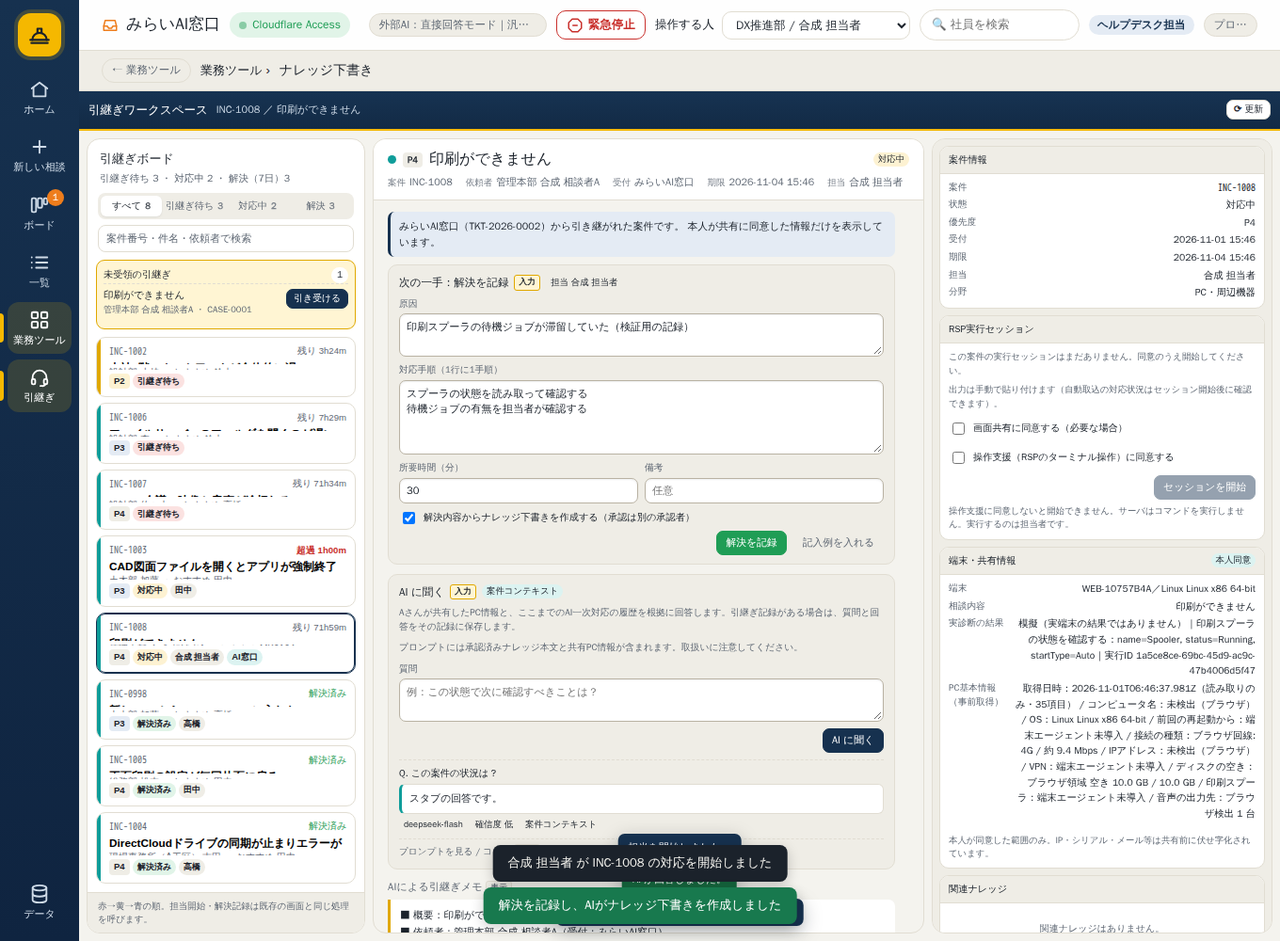
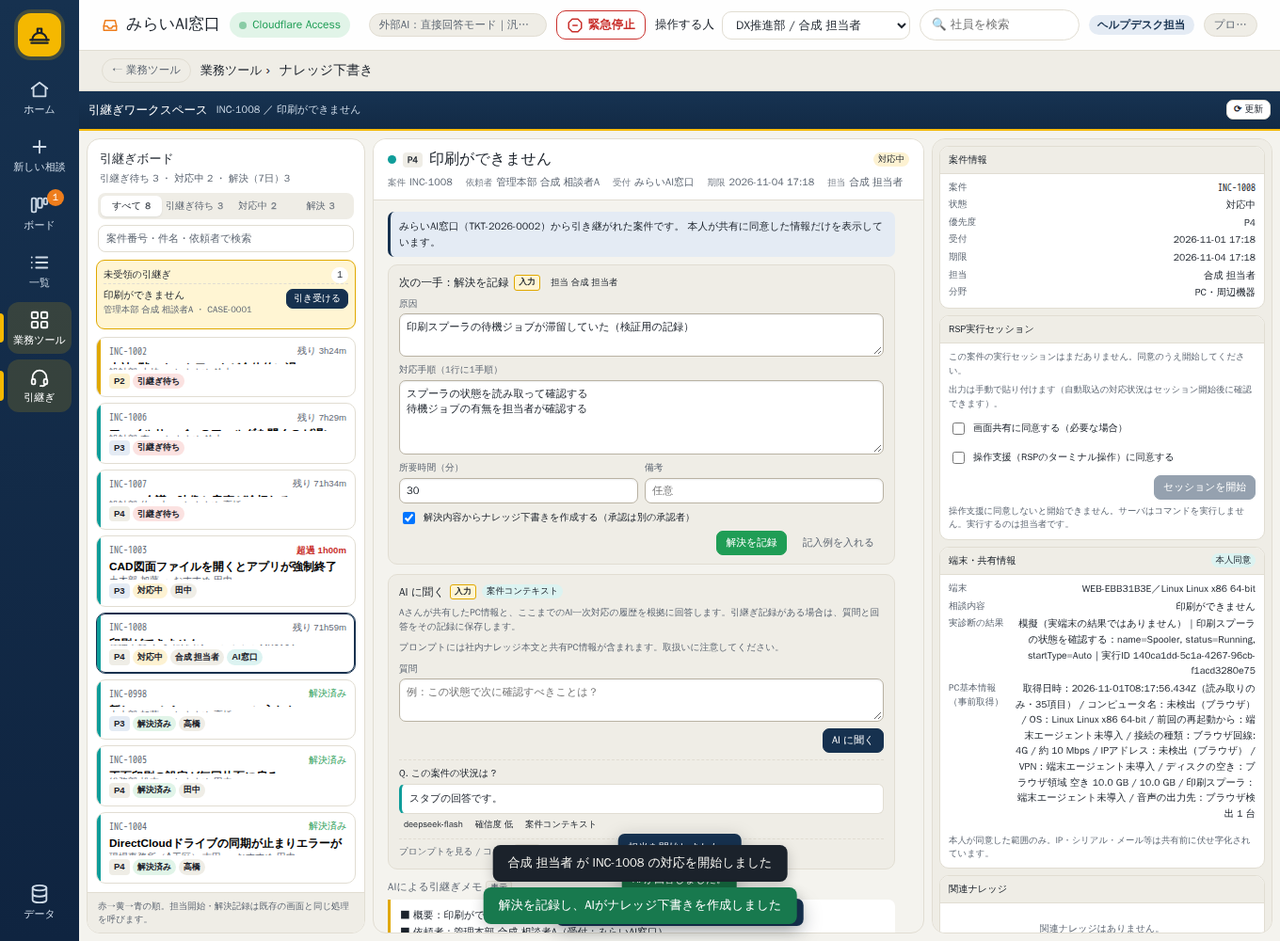
docs(verify): 承認の出所と保持期限の結果を記録し対応表を合わせる
Claude-Session: https://claude.ai/code/session_015rjQKFMA3Dwp4pu6PMqoM3

diff --git a/docs/evidence/dataflow-20261101/stub/report-sample.html b/docs/evidence/dataflow-20261101/stub/report-sample.html
@@ -65,36 +65,36 @@ summary { cursor: pointer; color: #245b9c; font-size: 9.5pt; }
     </div>
   </div>
 
-  <section class="sec" id="summary"><h2>概要</h2><table><thead><tr><th>項目</th><th>内容</th></tr></thead><tbody><tr><td>案件番号</td><td><span class="case">CASE-0001</span></td></tr><tr><td>相談者</td><td>管理本部 / 合成 相談者A <span class="muted">（社員番号 MK9101）</span></td></tr><tr><td>相談日時</td><td>2026-11-01 15:46:39</td></tr><tr><td>相談の種類</td><td>PC・周辺機器・ネットワーク</td></tr><tr><td>急ぎ具合</td><td>通常</td></tr><tr><td>対応結果</td><td><span class="badge" style="border-color:#245b9c;color:#245b9c">担当者の対応で解決</span></td></tr><tr><td>AIモデル</td><td>解決ループ（端末の読み取り結果。出所は各結果を参照）</td></tr><tr><td>出力日時</td><td>2026-11-01T06:47:51.473Z</td></tr><tr><td>出力者</td><td>管理本部 / 合成 相談者A <span class="muted">（一般社員・社員番号 MK9101）</span></td></tr><tr><td>受付番号 / ヘルプデスク</td><td>TKT-2026-0002 / INC-1008</td></tr><tr><td>担当者</td><td>MK9104</td></tr></tbody></table></section>
+  <section class="sec" id="summary"><h2>概要</h2><table><thead><tr><th>項目</th><th>内容</th></tr></thead><tbody><tr><td>案件番号</td><td><span class="case">CASE-0001</span></td></tr><tr><td>相談者</td><td>管理本部 / 合成 相談者A <span class="muted">（社員番号 MK9101）</span></td></tr><tr><td>相談日時</td><td>2026-11-01 17:17:57</td></tr><tr><td>相談の種類</td><td>PC・周辺機器・ネットワーク</td></tr><tr><td>急ぎ具合</td><td>通常</td></tr><tr><td>対応結果</td><td><span class="badge" style="border-color:#245b9c;color:#245b9c">担当者の対応で解決</span></td></tr><tr><td>AIモデル</td><td>解決ループ（端末の読み取り結果。出所は各結果を参照）</td></tr><tr><td>出力日時</td><td>2026-11-01T08:19:09.387Z</td></tr><tr><td>出力者</td><td>管理本部 / 合成 相談者A <span class="muted">（一般社員・社員番号 MK9101）</span></td></tr><tr><td>受付番号 / ヘルプデスク</td><td>TKT-2026-0002 / INC-1008</td></tr><tr><td>担当者</td><td>MK9104</td></tr></tbody></table></section>
   <section class="sec"><h2>相談内容</h2><p class="msg-text">印刷ボタンを押してもプリンターから紙が出ません</p></section>
-  <section class="sec"><h2>対応の経過</h2><table><thead><tr><th>日時</th><th>実施者</th><th>出来事</th><th>補足</th></tr></thead><tbody><tr><td>2026-11-01 15:46</td><td>合成 相談者A</td><td>相談を送信</td><td>印刷ができません</td></tr><tr><td>2026-11-01 15:46</td><td>模擬（実端末の結果ではありません）</td><td>端末の読み取り結果</td><td>印刷スプーラの状態を確認する</td></tr><tr><td>2026-11-01 15:46</td><td>合成 相談者A</td><td>共有に同意</td><td>本人が共有範囲を確認</td></tr><tr><td>2026-11-01 15:46</td><td>システム</td><td>担当者へ引き継ぎ</td><td>TKT-2026-0002</td></tr><tr><td>2026-11-01 15:46</td><td>システム</td><td>担当者へ引き継ぎ</td><td>TKT-2026-0002 → INC-1008</td></tr><tr><td>2026-11-01 15:46</td><td>システム</td><td>AI窓口から引継ぎ（本人同意済みの範囲のみ共有）</td><td></td></tr><tr><td>2026-11-01 15:46</td><td>システム</td><td>AIヘルプデスクへ連携（INC-1008）。対応結果はここに自動で反映されます</td><td></td></tr><tr><td>2026-11-01 15:46</td><td>システム</td><td>ヘルプデスクの担当：MK9104</td><td></td></tr><tr><td>2026-11-01 15:46</td><td>MK9104</td><td>担当者が対応開始</td><td></td></tr><tr><td>2026-11-01 15:46</td><td>MK9104</td><td>担当者が解決</td><td>DX推進部の担当者が対応しました。</td></tr><tr><td>2026-11-01 15:47</td><td>システム</td><td>ヘルプデスクの対応結果を反映</td><td></td></tr><tr><td>2026-11-01 15:47</td><td>システム</td><td>ヘルプデスクの対応結果を反映</td><td></td></tr></tbody></table></section>
-  <section class="sec"><h2>PC基本情報（読み取りのみ）</h2><p class="muted">端末 WEB-10757B4A ／ 取得 2026-11-01T06:46:37.981Z ／ 35項目 ／ 読み取りのみ</p><p class="note">IPアドレス・シリアル番号・資産番号は、この報告書では伏せています。</p><p class="ok">気になる点は見つかりませんでした。</p><details open><summary>PC基本情報の全項目（35件）</summary><table><thead><tr><th>分類</th><th>項目</th><th>値</th><th>判定</th></tr></thead><tbody><tr><td>端末</td><td>コンピュータ名</td><td>未検出（ブラウザ）</td><td><span class="dot ok"></span>正常</td></tr><tr><td>端末</td><td>機種</td><td>未検出（ブラウザ）</td><td><span class="dot ok"></span>正常</td></tr><tr><td>端末</td><td>シリアル番号</td><td>[シリアル番号]</td><td><span class="dot ok"></span>正常</td></tr><tr><td>端末</td><td>OS</td><td>Linux Linux x86 64-bit</td><td><span class="dot ok"></span>正常</td></tr><tr><td>端末</td><td>前回の再起動から</td><td>端末エージェント未導入</td><td><span class="dot ok"></span>正常</td></tr><tr><td>端末</td><td>PCエージェント</td><td>ブラウザ取得（読み取りのみ）</td><td><span class="dot ok"></span>正常</td></tr><tr><td>アカウント</td><td>サインイン中の人</td><td>ログイン中のユーザー（Access 認証済み）</td><td><span class="dot ok"></span>正常</td></tr><tr><td>アカウント</td><td>ドメイン・Entra ID</td><td>端末エージェント未導入</td><td><span class="dot ok"></span>正常</td></tr><tr><td>アカウント</td><td>多要素認証</td><td>Cloudflare Access（OTP）で認証済み</td><td><span class="dot ok"></span>正常</td></tr><tr><td>ネットワーク</td><td>接続の種類</td><td>ブラウザ回線: 4G / 約 9.4 Mbps</td><td><span class="dot ok"></span>正常</td></tr><tr><td>ネットワーク</td><td>IPアドレス</td><td>[IPアドレス]</td><td><span class="dot ok"></span>正常</td></tr><tr><td>ネットワーク</td><td>VPN</td><td>端末エージェント未導入</td><td><span class="dot ok"></span>正常</td></tr><tr><td>ネットワーク</td><td>社内ポータルへの到達</td><td>このアプリに到達（HTTPS）</td><td><span class="dot ok"></span>正常</td></tr><tr><td>ネットワーク</td><td>共有フォルダ</td><td>端末エージェント未導入</td><td><span class="dot ok"></span>正常</td></tr><tr><td>リソース</td><td>CPU使用率（5分平均）</td><td>未検出（ブラウザ・16 論理コア）</td><td><span class="dot ok"></span>正常</td></tr><tr><td>リソース</td><td>メモリ使用率</td><td>約 32.0 GB（ブラウザ推定）</td><td><span class="dot ok"></span>正常</td></tr><tr><td>リソース</td><td>ディスクの空き</td><td>ブラウザ領域 空き 10.0 GB / 10.0 GB</td><td><span class="dot ok"></span>正常</td></tr><tr><td>リソース</td><td>本人の一時ファイル</td><td>端末エージェント未導入</td><td><span class="dot ok"></span>正常</td></tr><tr><td>セキュリティ</td><td>ウイルス対策</td><td>端末エージェント未導入</td><td><span class="dot ok"></span>正常</td></tr><tr><td>セキュリティ</td><td>ディスク暗号化</td><td>端末エージェント未導入</td><td><span class="dot ok"></span>正常</td></tr><tr><td>セキュリティ</td><td>OS 更新（apt）</td><td>端末エージェント未導入</td><td><span class="dot ok"></span>正常</td></tr><tr><td>周辺機器</td><td>既定のプリンター</td><td>端末エージェント未導入</td><td><span class="dot ok"></span>正常</td></tr><tr><td>周辺機器</td><td>印刷スプーラ</td><td>端末エージェント未導入</td><td><span class="dot ok"></span>正常</td></tr><tr><td>周辺機器</td><td>印刷キュー</td><td>端末エージェント未導入</td><td><span class="dot ok"></span>正常</td></tr><tr><td>周辺機器</td><td>音声の出力先</td><td>ブラウザ検出 1 台</td><td><span class="dot ok"></span>正常</td></tr><tr><td>周辺機器</td><td>USB機器</td><td>端末エージェント未導入</td><td><span class="dot ok"></span>正常</td></tr><tr><td>ソフトウェア</td><td>Microsoft 365 Apps</td><td>端末エージェント未導入</td><td><span class="dot ok"></span>正常</td></tr><tr><td>ソフトウェア</td><td>Teams</td><td>端末エージェント未導入</td><td><span class="dot ok"></span>正常</td></tr><tr><td>ソフトウェア</td><td>VPNクライアント</td><td>端末エージェント未導入</td><td><span class="dot ok"></span>正常</td></tr><tr><td>ソフトウェア</td><td>DirectCloudドライブ</td><td>端末エージェント未導入</td><td><span class="dot ok"></span>正常</td></tr><tr><td>最近のエラー</td><td>アプリ・システムのエラー（24時間）</td><td>端末エージェント未導入</td><td><span class="dot ok"></span>正常</td></tr><tr><td>ソフトウェア</td><td>ブラウザ</td><td>Chromium 156.0.8078.4</td><td><span class="dot ok"></span>正常</td></tr><tr><td>ソフトウェア</td><td>画面</td><td>1360 × 1000（1x / 24bit）</td><td><span class="dot ok"></span>正常</td></tr><tr><td>ソフトウェア</td><td>GPU</td><td>Google Inc. (Google) ANGLE (Google, Vulkan 1.3.0 (SwiftShader Device (Subzero) (0x0000C0DE)), SwiftShader driver)</td><td><span class="dot ok"></span>正常</td></tr><tr><td>ソフトウェア</td><td>インストール済みソフト</td><td>端末エージェント未導入</td><td><span class="dot ok"></span>正常</td></tr></tbody></table></details></section>
-  <section class="sec"><h2>AIの一次対応</h2><p class="muted">モデル 解決ループ（端末の読み取り結果。出所は各結果を参照）</p><h3>やり取り</h3><div class="chat"><div class="msg user"><div class="msg-head">合成 相談者A <span class="muted">2026-11-01 15:46</span></div><div class="msg-text">印刷ができません。印刷ボタンを押してもプリンターから紙が出ません</div></div><div class="msg ai"><div class="msg-head">PCエージェント（事前取得） <span class="muted">2026-11-01 15:46</span></div><div class="msg-text">🖥 相談の前に取得した PC基本情報（WEB-10757B4A・06:46・35項目）を確認しました。
+  <section class="sec"><h2>対応の経過</h2><table><thead><tr><th>日時</th><th>実施者</th><th>出来事</th><th>補足</th></tr></thead><tbody><tr><td>2026-11-01 17:17</td><td>合成 相談者A</td><td>相談を送信</td><td>印刷ができません</td></tr><tr><td>2026-11-01 17:18</td><td>模擬（実端末の結果ではありません）</td><td>端末の読み取り結果</td><td>印刷スプーラの状態を確認する</td></tr><tr><td>2026-11-01 17:18</td><td>合成 相談者A</td><td>共有に同意</td><td>本人が共有範囲を確認</td></tr><tr><td>2026-11-01 17:18</td><td>システム</td><td>担当者へ引き継ぎ</td><td>TKT-2026-0002</td></tr><tr><td>2026-11-01 17:18</td><td>システム</td><td>担当者へ引き継ぎ</td><td>TKT-2026-0002 → INC-1008</td></tr><tr><td>2026-11-01 17:18</td><td>システム</td><td>AI窓口から引継ぎ（本人同意済みの範囲のみ共有）</td><td></td></tr><tr><td>2026-11-01 17:18</td><td>システム</td><td>AIヘルプデスクへ連携（INC-1008）。対応結果はここに自動で反映されます</td><td></td></tr><tr><td>2026-11-01 17:18</td><td>システム</td><td>ヘルプデスクの担当：MK9104</td><td></td></tr><tr><td>2026-11-01 17:18</td><td>MK9104</td><td>担当者が対応開始</td><td></td></tr><tr><td>2026-11-01 17:18</td><td>MK9104</td><td>担当者が解決</td><td>DX推進部の担当者が対応しました。</td></tr><tr><td>2026-11-01 17:18</td><td>システム</td><td>ヘルプデスクの対応結果を反映</td><td></td></tr><tr><td>2026-11-01 17:19</td><td>システム</td><td>ヘルプデスクの対応結果を反映</td><td></td></tr></tbody></table></section>
+  <section class="sec"><h2>PC基本情報（読み取りのみ）</h2><p class="muted">端末 WEB-EBB31B3E ／ 取得 2026-11-01T08:17:56.434Z ／ 35項目 ／ 読み取りのみ</p><p class="note">IPアドレス・シリアル番号・資産番号は、この報告書では伏せています。</p><p class="ok">気になる点は見つかりませんでした。</p><details open><summary>PC基本情報の全項目（35件）</summary><table><thead><tr><th>分類</th><th>項目</th><th>値</th><th>判定</th></tr></thead><tbody><tr><td>端末</td><td>コンピュータ名</td><td>未検出（ブラウザ）</td><td><span class="dot ok"></span>正常</td></tr><tr><td>端末</td><td>機種</td><td>未検出（ブラウザ）</td><td><span class="dot ok"></span>正常</td></tr><tr><td>端末</td><td>シリアル番号</td><td>[シリアル番号]</td><td><span class="dot ok"></span>正常</td></tr><tr><td>端末</td><td>OS</td><td>Linux Linux x86 64-bit</td><td><span class="dot ok"></span>正常</td></tr><tr><td>端末</td><td>前回の再起動から</td><td>端末エージェント未導入</td><td><span class="dot ok"></span>正常</td></tr><tr><td>端末</td><td>PCエージェント</td><td>ブラウザ取得（読み取りのみ）</td><td><span class="dot ok"></span>正常</td></tr><tr><td>アカウント</td><td>サインイン中の人</td><td>ログイン中のユーザー（Access 認証済み）</td><td><span class="dot ok"></span>正常</td></tr><tr><td>アカウント</td><td>ドメイン・Entra ID</td><td>端末エージェント未導入</td><td><span class="dot ok"></span>正常</td></tr><tr><td>アカウント</td><td>多要素認証</td><td>Cloudflare Access（OTP）で認証済み</td><td><span class="dot ok"></span>正常</td></tr><tr><td>ネットワーク</td><td>接続の種類</td><td>ブラウザ回線: 4G / 約 10 Mbps</td><td><span class="dot ok"></span>正常</td></tr><tr><td>ネットワーク</td><td>IPアドレス</td><td>[IPアドレス]</td><td><span class="dot ok"></span>正常</td></tr><tr><td>ネットワーク</td><td>VPN</td><td>端末エージェント未導入</td><td><span class="dot ok"></span>正常</td></tr><tr><td>ネットワーク</td><td>社内ポータルへの到達</td><td>このアプリに到達（HTTPS）</td><td><span class="dot ok"></span>正常</td></tr><tr><td>ネットワーク</td><td>共有フォルダ</td><td>端末エージェント未導入</td><td><span class="dot ok"></span>正常</td></tr><tr><td>リソース</td><td>CPU使用率（5分平均）</td><td>未検出（ブラウザ・16 論理コア）</td><td><span class="dot ok"></span>正常</td></tr><tr><td>リソース</td><td>メモリ使用率</td><td>約 32.0 GB（ブラウザ推定）</td><td><span class="dot ok"></span>正常</td></tr><tr><td>リソース</td><td>ディスクの空き</td><td>ブラウザ領域 空き 10.0 GB / 10.0 GB</td><td><span class="dot ok"></span>正常</td></tr><tr><td>リソース</td><td>本人の一時ファイル</td><td>端末エージェント未導入</td><td><span class="dot ok"></span>正常</td></tr><tr><td>セキュリティ</td><td>ウイルス対策</td><td>端末エージェント未導入</td><td><span class="dot ok"></span>正常</td></tr><tr><td>セキュリティ</td><td>ディスク暗号化</td><td>端末エージェント未導入</td><td><span class="dot ok"></span>正常</td></tr><tr><td>セキュリティ</td><td>OS 更新（apt）</td><td>端末エージェント未導入</td><td><span class="dot ok"></span>正常</td></tr><tr><td>周辺機器</td><td>既定のプリンター</td><td>端末エージェント未導入</td><td><span class="dot ok"></span>正常</td></tr><tr><td>周辺機器</td><td>印刷スプーラ</td><td>端末エージェント未導入</td><td><span class="dot ok"></span>正常</td></tr><tr><td>周辺機器</td><td>印刷キュー</td><td>端末エージェント未導入</td><td><span class="dot ok"></span>正常</td></tr><tr><td>周辺機器</td><td>音声の出力先</td><td>ブラウザ検出 1 台</td><td><span class="dot ok"></span>正常</td></tr><tr><td>周辺機器</td><td>USB機器</td><td>端末エージェント未導入</td><td><span class="dot ok"></span>正常</td></tr><tr><td>ソフトウェア</td><td>Microsoft 365 Apps</td><td>端末エージェント未導入</td><td><span class="dot ok"></span>正常</td></tr><tr><td>ソフトウェア</td><td>Teams</td><td>端末エージェント未導入</td><td><span class="dot ok"></span>正常</td></tr><tr><td>ソフトウェア</td><td>VPNクライアント</td><td>端末エージェント未導入</td><td><span class="dot ok"></span>正常</td></tr><tr><td>ソフトウェア</td><td>DirectCloudドライブ</td><td>端末エージェント未導入</td><td><span class="dot ok"></span>正常</td></tr><tr><td>最近のエラー</td><td>アプリ・システムのエラー（24時間）</td><td>端末エージェント未導入</td><td><span class="dot ok"></span>正常</td></tr><tr><td>ソフトウェア</td><td>ブラウザ</td><td>Chromium 156.0.8078.4</td><td><span class="dot ok"></span>正常</td></tr><tr><td>ソフトウェア</td><td>画面</td><td>1360 × 1000（1x / 24bit）</td><td><span class="dot ok"></span>正常</td></tr><tr><td>ソフトウェア</td><td>GPU</td><td>Google Inc. (Google) ANGLE (Google, Vulkan 1.3.0 (SwiftShader Device (Subzero) (0x0000C0DE)), SwiftShader driver)</td><td><span class="dot ok"></span>正常</td></tr><tr><td>ソフトウェア</td><td>インストール済みソフト</td><td>端末エージェント未導入</td><td><span class="dot ok"></span>正常</td></tr></tbody></table></details></section>
+  <section class="sec"><h2>AIの一次対応</h2><p class="muted">モデル 解決ループ（端末の読み取り結果。出所は各結果を参照）</p><h3>やり取り</h3><div class="chat"><div class="msg user"><div class="msg-head">合成 相談者A <span class="muted">2026-11-01 17:18</span></div><div class="msg-text">印刷ができません。印刷ボタンを押してもプリンターから紙が出ません</div></div><div class="msg ai"><div class="msg-head">PCエージェント（事前取得） <span class="muted">2026-11-01 17:18</span></div><div class="msg-text">🖥 相談の前に取得した PC基本情報（WEB-EBB31B3E・08:17・35項目）を確認しました。
 気になる点は見つかりませんでした。
 ★＝相談内容に関係しそうな項目です。このあと、相談内容に合わせて詳しく調べます。
-PC基本情報を詳しく見る</div></div><div class="msg ai"><div class="msg-head">システム <span class="muted">2026-11-01 15:46</span></div><div class="msg-text">端末エージェントが接続されています。読み取り診断へ案内しました。</div></div><div class="msg ai"><div class="msg-head">模擬（実端末の結果ではありません） <span class="muted">2026-11-01 15:46</span></div><div class="msg-text">【模擬（実端末の結果ではありません）】印刷スプーラの状態を確認する：name=Spooler, status=Running, startType=Auto（読み取りの結果です。解決の判定ではありません）</div></div><div class="msg system"><div class="msg-head">システム <span class="muted">2026-11-01 15:46</span></div><div class="msg-text">本人が共有に同意して引き継ぎました。</div></div><div class="msg system"><div class="msg-head">システム <span class="muted">2026-11-01 15:46</span></div><div class="msg-text">担当者へ引き継ぎました（TKT-2026-0002 → INC-1008）</div></div><div class="msg ai"><div class="msg-head">AIヘルプデスク連携 <span class="muted">2026-11-01 06:47</span></div><div class="msg-text">DX推進部の対応が完了しました。
-承認: 2026/11/01 15:47
+PC基本情報を詳しく見る</div></div><div class="msg ai"><div class="msg-head">システム <span class="muted">2026-11-01 17:18</span></div><div class="msg-text">端末エージェントが接続されています。読み取り診断へ案内しました。</div></div><div class="msg ai"><div class="msg-head">模擬（実端末の結果ではありません） <span class="muted">2026-11-01 17:18</span></div><div class="msg-text">【模擬（実端末の結果ではありません）】印刷スプーラの状態を確認する：name=Spooler, status=Running, startType=Auto（読み取りの結果です。解決の判定ではありません）</div></div><div class="msg system"><div class="msg-head">システム <span class="muted">2026-11-01 17:18</span></div><div class="msg-text">本人が共有に同意して引き継ぎました。</div></div><div class="msg system"><div class="msg-head">システム <span class="muted">2026-11-01 17:18</span></div><div class="msg-text">担当者へ引き継ぎました（TKT-2026-0002 → INC-1008）</div></div><div class="msg ai"><div class="msg-head">AIヘルプデスク連携 <span class="muted">2026-11-01 08:19</span></div><div class="msg-text">DX推進部の対応が完了しました。
+承認: 2026/11/01 17:19
 内容はSTEP7の完了画面で確認できます。</div></div></div><h3>模擬（実端末の結果ではありません）：印刷スプーラの状態を確認する</h3><table><thead><tr><th>確認項目</th><th>結果</th><th>判定</th></tr></thead><tbody><tr><td>name</td><td>Spooler</td><td><span class="dot none"></span>判定なし</td></tr><tr><td>status</td><td>Running</td><td><span class="dot none"></span>判定なし</td></tr><tr><td>startType</td><td>Auto</td><td><span class="dot none"></span>判定なし</td></tr></tbody></table></section>
-  <section class="sec"><h2>担当者への引継ぎ</h2><table><thead><tr><th>項目</th><th>内容</th></tr></thead><tbody><tr><td>引継ぎ理由</td><td>AI窓口から引継ぎ（本人同意済みの範囲のみ共有）</td></tr><tr><td>受付番号</td><td>TKT-2026-0002</td></tr><tr><td>ヘルプデスク番号</td><td>INC-1008</td></tr><tr><td>担当</td><td>MK9104</td></tr><tr><td>共有した情報</td><td>端末、相談内容、実診断の結果、PC基本情報（事前取得）</td></tr><tr><td>引継ぎ日時</td><td>2026-11-01 15:46:47</td></tr><tr><td>承認の性質</td><td>別の担当者</td></tr></tbody></table><h3>AIがまとめた引継ぎメモ</h3><pre class="memo">■ 概要：印刷ができません
+  <section class="sec"><h2>担当者への引継ぎ</h2><table><thead><tr><th>項目</th><th>内容</th></tr></thead><tbody><tr><td>引継ぎ理由</td><td>AI窓口から引継ぎ（本人同意済みの範囲のみ共有）</td></tr><tr><td>受付番号</td><td>TKT-2026-0002</td></tr><tr><td>ヘルプデスク番号</td><td>INC-1008</td></tr><tr><td>担当</td><td>MK9104</td></tr><tr><td>共有した情報</td><td>端末、相談内容、実診断の結果、PC基本情報（事前取得）</td></tr><tr><td>引継ぎ日時</td><td>2026-11-01 17:18:06</td></tr><tr><td>承認の性質</td><td>別の担当者</td></tr></tbody></table><h3>AIがまとめた引継ぎメモ</h3><pre class="memo">■ 概要：印刷ができません
 ■ 依頼者：管理本部 合成 相談者A（受付：みらいAI窓口）
-■ 優先度：P4　対応期限：11/04 15:46
+■ 優先度：P4　対応期限：11/04 17:18
 ■ 引継ぎ理由：みらいAI窓口から引継ぎ（本人同意済みの範囲のみ）
 ■ 連携元：AI相談 TKT-2026-0002（本人が共有に同意した情報のみ）
 　- 相談内容：印刷ができません
-　- 端末：WEB-10757B4A／Linux Linux x86 64-bit
+　- 端末：WEB-EBB31B3E／Linux Linux x86 64-bit
 　- PC基本情報（事前取得）：
-　　・取得日時：2026-11-01T06:46:37.981Z（読み取りのみ・35項目）
+　　・取得日時：2026-11-01T08:17:56.434Z（読み取りのみ・35項目）
 　　・コンピュータ名：未検出（ブラウザ）
 　　・OS：Linux Linux x86 64-bit
 　　・前回の再起動から：端末エージェント未導入
-　　・接続の種類：ブラウザ回線: 4G / 約 9.4 Mbps
+　　・接続の種類：ブラウザ回線: 4G / 約 10 Mbps
 　　・IPアドレス：未検出（ブラウザ）
 　　・VPN：端末エージェント未導入
 　　・ディスクの空き：ブラウザ領域 空き 10.0 GB / 10.0 GB
 　　・印刷スプーラ：端末エージェント未導入
 　　・音声の出力先：ブラウザ検出 1 台
 　- 実診断の結果：
-　　・模擬（実端末の結果ではありません）｜印刷スプーラの状態を確認する：name=Spooler, status=Running, startType=Auto｜実行ID 1a5ce8ce-69bc-45d9-ac9c-47b4006d5f47
+　　・模擬（実端末の結果ではありません）｜印刷スプーラの状態を確認する：name=Spooler, status=Running, startType=Auto｜実行ID 140ca1dd-5c1a-4267-96cb-f1acd3280e75
 ■ AI一次対応の経過：
 　- AI相談で一次対応（診断・資料案内）済み。解決しなかったため本人同意のうえ引継ぎ
 ■ 推定分野：PC・周辺機器　おすすめの担当：合成 承認者（ヘルプデスク担当）
@@ -108,9 +108,9 @@ PC基本情報を詳しく見る</div></div><div class="msg ai"><div class="msg-
   <div class="footer">
     <div>この報告書は AI HelpDesk Platform が自動生成したものです。個人情報は伏せ字化しています。</div>
     <div>本報告書は画面の状態をもとに生成しています。サーバー側の案件台帳との突合は MVP では行いません。</div>
-    <div>報告書ID：<span class="hash">8395f9aa-0a3e-411c-9b9f-cec24c3472c6</span></div>
-    <div>SHA-256（内容の同一性確認）：<span class="hash">dcd31eb3107827c58659c9832e8ca9a5655b844c150a5dae415ce4c54ebeb02c</span></div>
-    <div>出力：2026-11-01T06:47:51.473Z ／ 形式：Standalone HTML（外部ファイル参照なし）</div>
+    <div>報告書ID：<span class="hash">3794602a-eff1-40c7-883e-7bf258a542c2</span></div>
+    <div>SHA-256（内容の同一性確認）：<span class="hash">522b09eb3199ae4b9524a2b7c0dd44c621e6f64718dc46e13231e21a41220b4a</span></div>
+    <div>出力：2026-11-01T08:19:09.387Z ／ 形式：Standalone HTML（外部ファイル参照なし）</div>
   </div>
 </div></body>
 </html>

diff --git a/docs/64-kb-approved-provenance.md b/docs/64-kb-approved-provenance.md
@@ -140,3 +140,49 @@ AUDIT_DATABASE_URL=<接続先> SHARED_IDENTITY_GROUPS=<本番と同じ値> \
 
 **本番 DB への実行はユーザーの判断で行う。この PR の作業では実行していない。**
 
+## 9. 承認の出所の区別（2026-11-01）
+
+本番の `approved` の KB 9 件は、作成者と承認者がすべてシードのアカウントで `client_ref` が無い（coordinator の確認。この作業では本番に接続していない）。実機の回で `KB-2026-0003 v1` が「出典：別の担当者が承認したナレッジ」と表示された。**表示が事実と違っていたので、出所を区別して表示する。使ってよいかの方針は変えていない。**
+
+### 出所の語彙
+
+サーバが固定語彙で判定する（`domain/approval-origin.ts`）。
+
+| 値 | 条件 | 表示 |
+|---|---|---|
+| `seed` | 作成者と承認者の両方が `scripts/seed.ts` の利用者の固定 ID（`SEED_USER_IDS`）。片方だけなら該当しない | 初期登録の資料（人の承認記録なし） |
+| `shared_identity` | `SHARED_IDENTITY_GROUPS` で作成者と承認者が同じグループ | 同一人物の別アカウントが承認 |
+| `other_person` | 上のどちらでもない | 別の担当者が承認 |
+| 値なし・不明 | `knowledge_refs` の古い行など | 出所を確認できません |
+
+出すところ: 結果カードの出典（`resolve-bridge.js`）、提案の AI 入力（`knowledgeRefs[].approvalOrigin` / `approvalOriginLabel`）、`/api/ai/answer` のプロンプトの「出所:」と出典、フォールバックの書き出し、画面の回答の「出典」行、報告書の出典表（画面内の資料は「画面内の資料（DB で未承認）」）。「承認済みナレッジ」と全件を呼ぶ文言は「ナレッジ」「社内ナレッジ」に変えた。
+
+**判定の根拠と限界:** メールのドメインでは判定しない。`seed.ts` は `ON CONFLICT DO NOTHING` で利用者を作るので、シードより前に同じメールの行があった環境では ID が固定値と違い、`other_person` と表示される。**本番の 9 件がこの判定で `seed` になるかは未確認である。** 下の `db.usableSeed` が 9 になることで確かめる。`other_person` は「アカウントが別で、同一人物の登録が無い」という意味で、別の人物であることの証明ではない。
+
+### 件数の確認（読み取り専用）
+
+§4 と同じ `scripts/report-state-kb-provenance.mjs`。`SHARED_IDENTITY_GROUPS` に本番と同じ値を渡す。出力は件数だけ。
+
+| 出力 | 意味 |
+|---|---|
+| `db.usableSeed` | AI の根拠に使える行のうち `seed` |
+| `db.usableSharedIdentity` | 同じく `shared_identity`（`seed` は除く） |
+| `db.usableOtherPerson` | 同じく `other_person` |
+
+**本番 DB への実行はユーザーの判断で行う。この PR の作業では実行していない。**
+
+### 現状の動作（変えていない）
+
+`findApprovedKnowledge` の条件（`approved`、承認記録あり、`approver_id <> author_id`、承認後の更新なし）を満たせば、3 種類とも AI の根拠と解決ループの案内に使う。`seed` も `approver_id <> author_id` を満たすので使われる。
+
+### 判断が必要なこと（ユーザーの判断）
+
+| 選択肢 | 影響 |
+|---|---|
+| A. `seed` を根拠に使い続ける（現状） | 既存の回答が変わらない。人の承認記録の無い内容が AI の根拠になるが、出所は表示される |
+| B. `seed` を根拠から外す | 本番の approved が 9 件とも seed なら、**AI の根拠と結果カードの案内が 0 件になる**。自由記述の回答は「担当者へ引き継いでください」が増える。必要な内容は下書きとして起票し、別人が承認する手順が要る |
+| C. `shared_identity` を使い続ける（現状） | 新しい KB が AI に届く。同一人物の承認なので職務分離は人物単位では成立しない。出所は表示される |
+| D. `shared_identity` を根拠から外す | [docs/61](./61-approvers-and-owners-20261031.md) §7 のとおり、いま画面から承認できるのは人物 A の 2 アカウントだけなので、**A の下書きを別の人物が承認できるようになるまで、新しい KB は AI に届かない** |
+
+B と D を同時に選ぶと、別の人物が画面で承認できるようになるまで本番の AI の根拠は 0 件になる。
+

diff --git a/docs/66-windows-command-agent.md b/docs/66-windows-command-agent.md
@@ -99,7 +99,7 @@ Get-CimInstance Win32_Process -Filter "Name='powershell.exe'" |
   ForEach-Object { Stop-Process -Id $_.ProcessId }
 ```
 
-**アンインストール:** 停止する → スタートアップのショートカットを消す → `%LOCALAPPDATA%\AIHelpDesk\agent` と設定ファイルを消す → 管理者がサーバ側でトークンを失効する（`device_tokens.revoked_at`。専用のスクリプトは無い）。
+**アンインストール:** 停止する → スタートアップのショートカットを消す → `%LOCALAPPDATA%\AIHelpDesk\agent`、設定ファイル、`<設定ファイル>.last-contact` を消す → 管理者がサーバ側でトークンを失効する（`device_tokens.revoked_at`。専用のスクリプトは無い）。
 
 ## 5. 確かめたこと
 
@@ -136,3 +136,26 @@ Linux の pwsh 7 では次を確かめられない。
 - 常駐のエージェントでの端末の接続表示（E2E はコマンドを作ってから `-Once` を流した）。
 - TLS 1.2 の有効化（5.1 のときだけ `ServicePointManager` へ足す。実際の接続は未確認）。
 - Cloudflare Access 越しの通信、スタートアップからの起動、昇格していないユーザーでの `SPOOLER_RESTART`。
+
+## 7. ローカルの保持期限
+
+#120 の `folder-helper.ps1`（docs/63 §12）と同じ考え方で、サーバと連絡できないままトークンを持ち続けない。
+
+| 項目 | 内容 |
+|---|---|
+| 記録 | `<設定ファイル>.last-contact` の更新時刻（内容は固定の文字列で、秘密を含まない）。例外にならなかった応答（2xx、204）だけを連絡と数える。5xx、401 / 403、通信の失敗は数えない。書き込みは最短 60 分おき |
+| 起点 | 設定ファイルの更新時刻と、最後の連絡の新しいほう。発行し直した直後に古い記録で消さない。一度も通信していない設定も期限の対象になる |
+| 期限 | 168 時間。記録が 24 時間より未来なら、期限を延ばさず過ぎたものとして扱う |
+| 判定 | 起動時とポーリングの前。**通信しない** |
+| 期限切れ | 設定ファイル（`deviceToken`）と記録を消して止まる。終了コードは 3 で、成功（0）や通常の失敗（1）と分ける。`-DryRun` は消さずに 3 で止まる |
+| 再開 | トークンを再発行して設定ファイルを作り直す |
+
+**期限切れは成功でも、停止の確認でもない。** サーバへ報告しないので、サーバ側のトークンは失効せず、実行中のコマンドの記録も変わらない。サーバ側は管理者が `device_tokens.revoked_at` で失効する。
+
+**限界:**
+
+- 処理はエージェントが動いたときだけ走る。**電源が入らない端末、エージェントを起動しない端末では消えない。** 常駐中は 168 時間を過ぎた次のポーリングで止まるが、スリープ中は動かない。
+- 消すのは設定ファイルだけで、ディスクの上書き消去はしない。別の場所へコピーした設定やバックアップは消せない。
+- 本人が時刻やファイルを書き換えれば延ばせる（本人権限の範囲で、攻撃への対策ではない）。
+- 常駐の Windows 実機では未確認（pwsh、Linux の試験で確認した）。
+

diff --git a/docs/14-prototype-ui-integration.md b/docs/14-prototype-ui-integration.md
@@ -320,6 +320,17 @@
 | ⑥ 「サーバ下書き」のカード | 題名、作成者、状態 | 症状、原因、手順を追加（確認せずに承認させない） |
 | 解決ループの結果カード | 結果のみ | 相談に一致した承認済み KB（番号、版、題名、手順の要約）を出典として追加。AI が使ったと答えたものだけ「AI が参照しました」、他は「AI の参照はありません（相談内容との照合で表示）」 |
 
+### 2-17. 承認の出所の表示（2026-11-01）
+
+**理由（AGENTS.md §5）**: 実機の回で、シードの KB が「出典：別の担当者が承認したナレッジ」と表示された。事実と違うので区別する（[docs/64](./64-kb-approved-provenance.md) §9）。AI の根拠に使うかは変えていない。
+
+| 対象 | 変更前 | 変更後 |
+|---|---|---|
+| 結果カードの見出し | 出典：別の担当者が承認したナレッジ | 出典：社内ナレッジ。項目ごとに「出所：別の担当者が承認／同一人物の別アカウントが承認／初期登録の資料（人の承認記録なし）」 |
+| AI の回答（自由記述） | 出典の表示なし | 「出典 KB番号 v版：出所」を追加 |
+| フォールバックの注記とモデル欄 | 承認済みナレッジから回答、承認済みナレッジ検索 | 社内ナレッジから回答、社内ナレッジ検索 |
+| 報告書 | 根拠にした承認済みナレッジ | 根拠にしたナレッジ。出所の列を追加 |
+
 ## 3. 配備
 
 | リソース | 値 |
